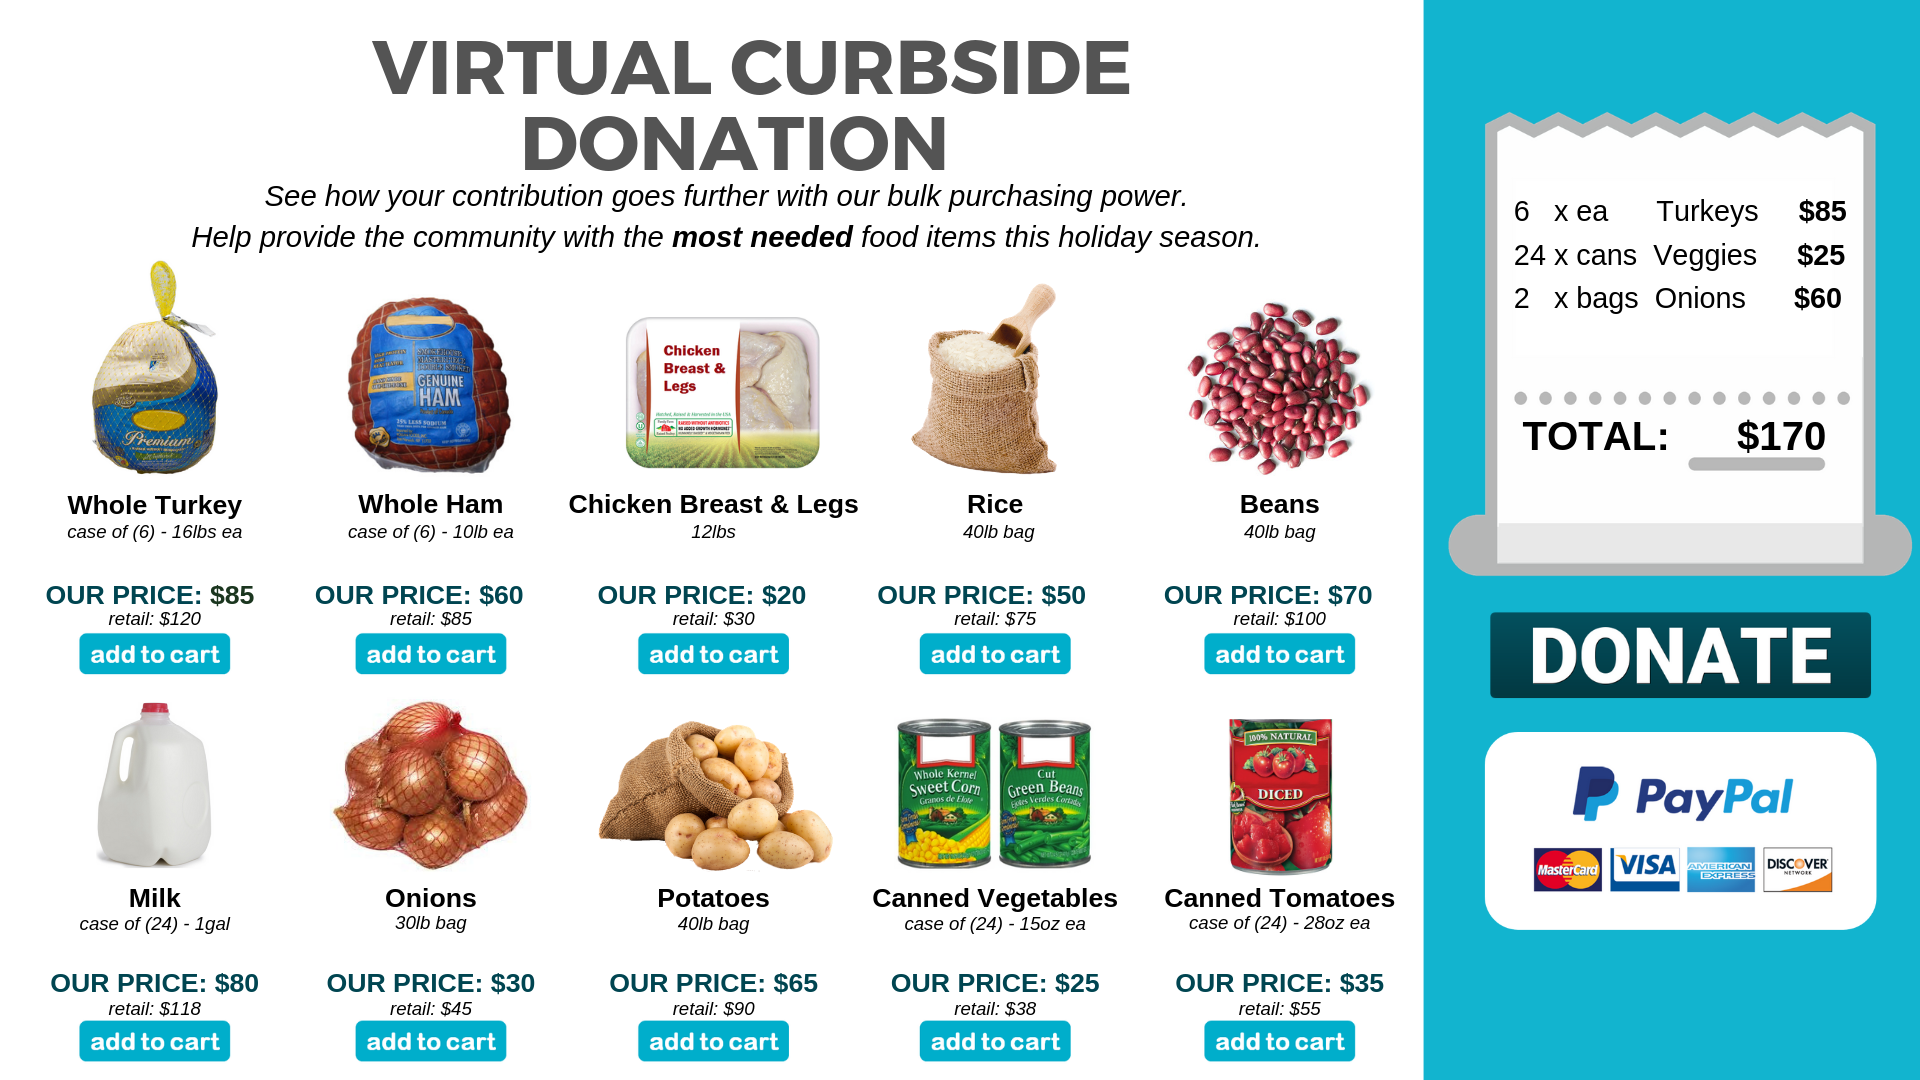
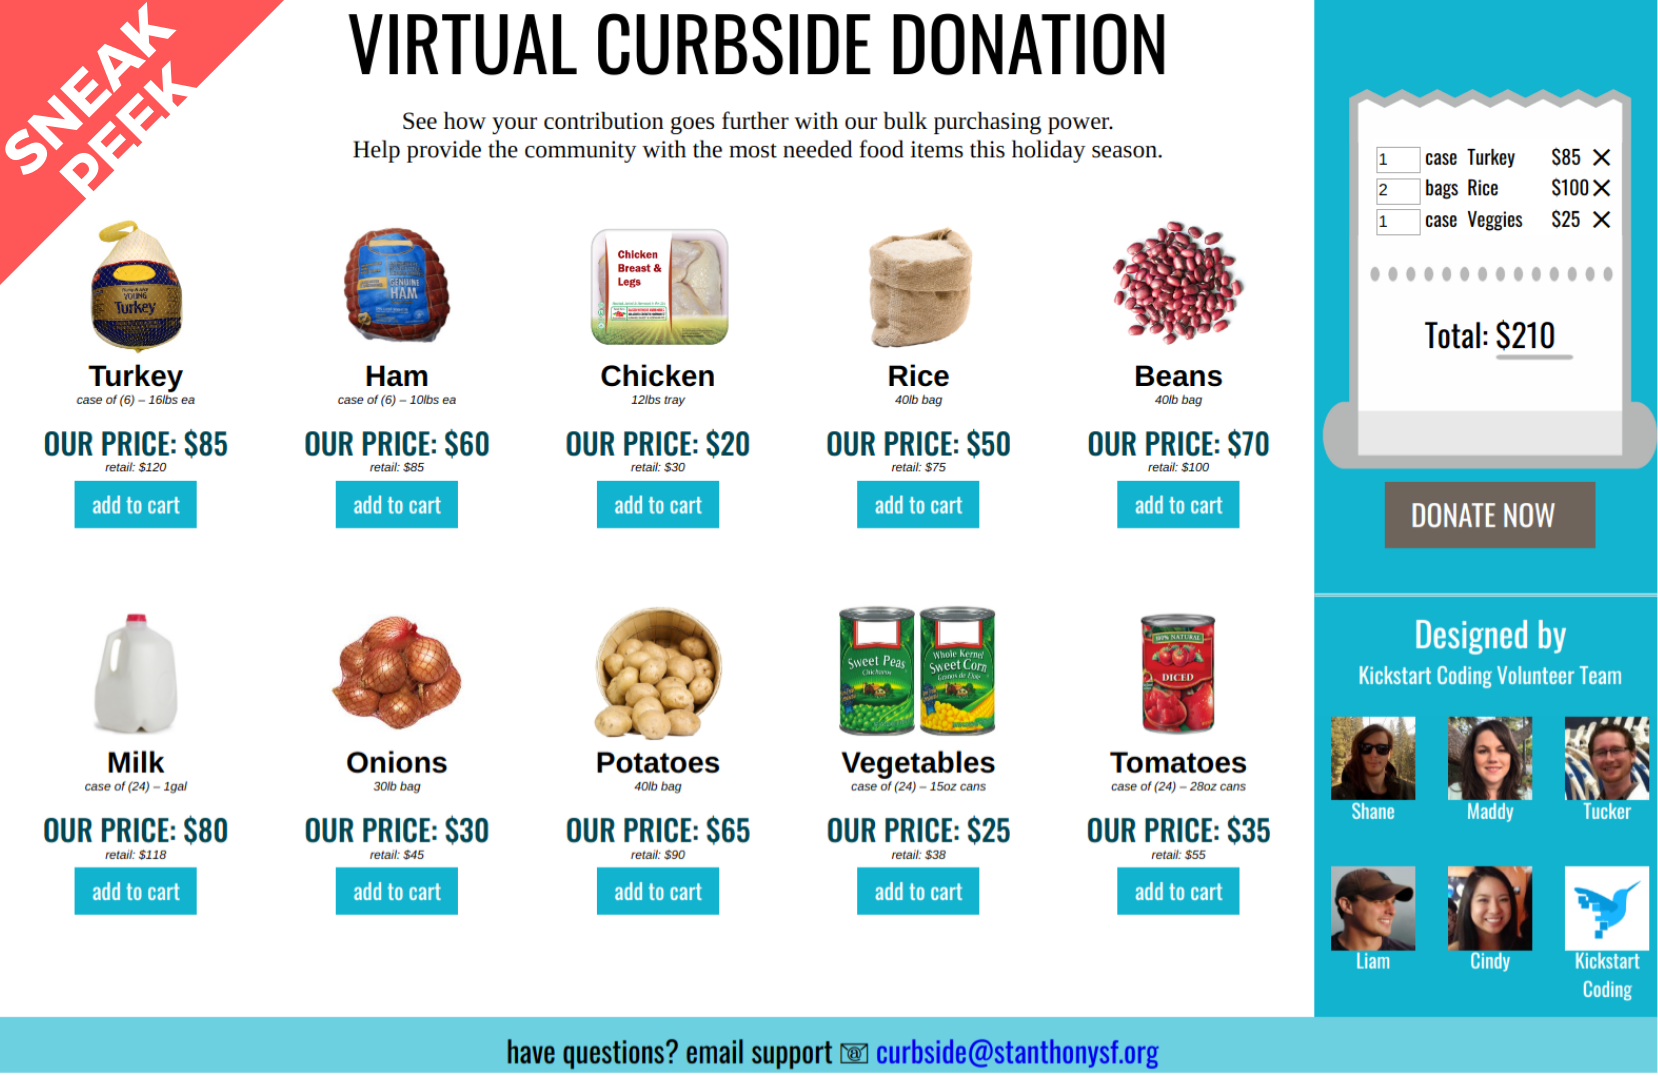
added input fields on receipt, updated team photos, updated add and donate buttons (#35)

diff --git a/css/style.css b/css/style.css
@@ -1,22 +1,23 @@
 .addbutton {
 	background-color:#12b3cf;
-	-moz-border-radius:28px;
+	/*-moz-border-radius:28px;
 	-webkit-border-radius:28px;
-	border-radius:28px;
+	border-radius:28px;*/
 	border: none;
 	display:inline-block;
 	cursor:pointer;
 	color:#ffffff;
 	font-family: Oswald;
-  font-weight: bold;
-	font-size:15px;
+  font-weight: 400;
+	font-size:18px;
 	padding:6px 14px;
 	text-decoration:none;
 	align-items: end;
 
 }
 .addbutton:hover {
-	background-color:#d77450;
+	background-color:#6CD0E1;
+	color: #ffffff;
 }
 .addbutton:active {
 	position:relative;
@@ -48,19 +49,19 @@
 	-webkit-box-shadow:inset 0px 0px 14px -3px #f2fadc;
 	box-shadow:inset 0px 0px 14px -3px #f2fadc;
 	background:-webkit-gradient(linear, left top, left bottom, color-stop(0.05, #dbe6c4), color-stop(1, #9ba892));
-	background:-moz-linear-gradient(top, #dbe6c4 5%, #9ba892 100%);
-	background:-webkit-linear-gradient(top, #dbe6c4 5%, #9ba892 100%);
-	background:-o-linear-gradient(top, #dbe6c4 5%, #9ba892 100%);
-	background:-ms-linear-gradient(top, #dbe6c4 5%, #9ba892 100%);
-	background:linear-gradient(to bottom, #dbe6c4 5%, #9ba892 100%);
+	background:-moz-linear-gradient(top, #6E645C 5%, #9ba892 100%);
+	background:-webkit-linear-gradient(top, #6E645C 5%, #9ba892 100%);
+	background:-o-linear-gradient(top, #6E645C 5%, #9ba892 100%);
+	background:-ms-linear-gradient(top, #6E645C 5%, #9ba892 100%);
+	background:linear-gradient(to bottom, #6E645C 5%, #9ba892 100%);
 	filter:progid:DXImageTransform.Microsoft.gradient(startColorstr='#dbe6c4', endColorstr='#9ba892',GradientType=0);
-	background-color:#dbe6c4;
+	background-color:#6E645C;
 	border:1px solid #b2b8ad;
 	display:inline-block;
 	cursor:pointer;
-	color:#757d6f;
+	color:#6E645;
 	font-family:Arial;
-	font-size:9px;
+	font-size:7px;
 	font-weight:bold;
 	padding:0px 0px;
 	text-decoration:none;
@@ -85,29 +86,31 @@
   display: grid;
   grid-template-rows: 1fr 1fr;
   grid-template-columns: 1fr 1fr 1fr;
+	background-color:#12b3cf;
+	margin-top: 20px;
 }
 
 .team-name {
   text-align: center;
-  font-family: var(--teamheaderfont);
+  font-family: 'Oswald';
+	font-weight: 400;
   font-size: 1em;
   color: white;
+	background-color:#12b3cf;
+	margin-top: -8px;
 }
 
 .teamPics {
-  border-radius: 50%;
-	width: 58px;
-	height: 58px;
-	border: 3px solid white;
+  /*border-radius: 40%;*/
+	width: 68px;
+	height: 68px;
+	/*border: 3px solid white;*/
 	background-color: white;
+	/*margin-left: 15%;*/
 }
 
 .teamPics:hover {
-  border-radius: 50%;
-	width: 58px;
-	height: 58px;
-	border: 3px solid white;
-	background-color: white;
+
 
 	opacity: .6;
 }
@@ -143,7 +146,7 @@
 .email-support {
 	background-color: #6CD0E1;
 	font-family: Oswald;
-	font-size: 20px;
+	font-size: 24px;
 	padding-top: 10px;
   text-align: center;
 }
@@ -155,4 +158,29 @@ a	{
 
 a:hover {
 	color: #d77450;
+}
+
+.donatebutton2 {
+	color: white !important;
+	background-color: #6E645C;
+	padding: 15px;
+	width: 60%;
+	margin-left: 20%;
+	margin-bottom: 10px;
+	border: none;
+	font-size: 24px;
+	font-weight: 400;
+	font-family: 'Oswald';
+	line-height: 1;
+	text-align: center;
+	display: block;
+}
+
+.donatebutton2:hover {
+	background-color: #D77450;
+}
+
+hr {
+	border-top: 1px solid;
+	color: white;
 }

diff --git a/css/grid-layout.css b/css/grid-layout.css
@@ -1,8 +1,8 @@
 :root {
   /* Super Mario World Inspired */
   --titlefont: 'Oswald', sans-serif;
-  --subheaderfont: sans-serif;
-  --teamheaderfont: sans-serif;
+  --subheaderfont: Georgia;
+  --teamheaderfont: Oswald;
   --sidepanel-background: #12b4cf;
   --itemtitlefont: arial;
   --itemunitretailfont: sans-serif;
@@ -11,12 +11,16 @@
   --ourpricecolor: #004551;
 }
 
+html, body {
+    max-width: 100%;
+    overflow-x: hidden;
+}
 
 .grid-container {
   display: grid;
   height: 100%;
   grid-template-columns: 1fr 1fr 1fr 1fr 1fr 1.25fr;
-  grid-template-rows: 0.25fr 0.25fr 1fr 1fr;
+  grid-template-rows: 0.5fr 0.5fr 2fr 2fr;
   grid-template-areas: ". . . ." ". . . .";
 
 }
@@ -29,9 +33,9 @@
   grid-template-areas: ".";
   text-align: center;
   font-family: var(--titlefont);
-  font-size: 50px;
+  font-size: 60px;
   line-height: 1;
-  font-weight: 500;
+  font-weight: 400;
 
 }
 
@@ -43,7 +47,9 @@
   grid-template-areas: ".";
   text-align: center;
   font-family: var(--subheaderfont);
-  /*margin-top: 10px;*/
+  font-size: 20px;
+  margin-bottom: -10px;
+  /*line-height: 15*/
 }
 
 .teamHeader {
@@ -52,6 +58,8 @@
   margin-bottom: 5px;
   font-size: 12px;
   color: white;
+  font-weight: 400;
+  background-color: #12b4cf;
 }
 .Receipt {
   display: grid;
@@ -61,6 +69,7 @@
   grid-template-areas: ".";
   background-color: var(--sidepanel-background);
   align-items: end;
+  margin-bottom: 100px;
 
 }
 
@@ -81,15 +90,15 @@
 .singleline {
     display: grid;
     grid-template-rows: 100%;
-    grid-template-columns: 7% 15% 30% 5%;
-    background-image: url("../img/middlereceipt.png");
+    grid-template-columns: 14% 12% 24% 10% 5%;
+    background-image: url("../img/blankreceipt.png");
     background-size: 100% 100%;
     position: relative;
     width: 285px;
 }
 .singleline > div {
-    margin-left: 65px;
-    width: 200px;
+    margin-left: 50px;
+    width: 285px;
 }
 
 
@@ -104,9 +113,10 @@
 }
 
 .Donate {
-  grid-area: 4 / 6 / 5 / 7;
+  grid-area: 4 / 6 / 7 / 7;
   background-color: var(--sidepanel-background);
   text-align: center;
+  margin-top: -100px;
 }
 
 .Items-List {
@@ -121,8 +131,8 @@
 }
 
 .Item-Name {
-  font-weight: bold;
-  font-size: 20px;
+  font-weight: 600;
+  font-size: 24px;
   font-family: var(--itemtitlefont);
 }
 
@@ -149,7 +159,7 @@
 }
 
 .Our-Price {
-  font-weight: 600;
+  font-weight: 500;
   font-family: var(--ourpricefont);
   color: var(--ourpricecolor);
   font-size: 24px;
@@ -175,7 +185,7 @@
 .team {
   display: flex;
   flex-flow: wrap;
-  justify-content: space-around;
+  /*justify-content: space-around;*/
 }
 
 /* if viewed on an iPad */

diff --git a/index.html b/index.html
@@ -21,8 +21,8 @@
         VIRTUAL CURBSIDE DONATION
       </div>
       <div class="Description">
-        <p>See how your contribution goes further with our bulk purchasing power.</p>
-        <p>Help provide the community with the <strong>most needed</strong> food items this holiday season.</p>
+        See how your contribution goes further with our bulk purchasing power.</br>
+        Help provide the community with the most needed food items this holiday season.
       </div>
       <div class="Receipt">
         <div class="topimage"></div>
@@ -35,7 +35,10 @@
           </div>
       <!-- Total amount shows up here -->
         </div>
+
       </div>
+
+
     <div class="Donate">
     <!-- PayPal Logo : <a href="https://www.paypal.com/webapps/mpp/paypal-popup" title="How PayPal Works" onclick="javascript:window.open('https://www.paypal.com/webapps/mpp/paypal-popup','WIPaypal','toolbar=no, location=no, directories=no, status=no, menubar=no, scrollbars=yes, resizable=yes, width=1060, height=700'); return false;"><img src="https://www.paypalobjects.com/webstatic/mktg/logo/pp_cc_mark_37x23.jpg" border="0" alt="PayPal Logo"></a><!-- PayPal Logo -->
 
@@ -54,14 +57,14 @@
              value="Please add items to your basket.">
       <input type="hidden" id="donateTotal" name="amount" value="0.00">
       <!-- Display the payment button: -->
-      <input type="submit" name="submit" value="Donate"
-             alt="Donate" class="donatebutton">
+      <input type="submit" name="submit" value="DONATE NOW  "
+             alt="Donate" class="donatebutton2">
       <img alt="" width="1" height="1"
            src="https://www.paypalobjects.com/en_US/i/scr/pixel.gif" >
     </form>
     <hr />
-    <div class = "teamHeader"><span style="font-size: 3.5ex; font-weight: bold;">Designed by</span><br /><span style="font-size: 2ex;">Kickstart Coding
-    Inaugural Cohort <br />Volunteer Team</span></div>
+    <div class = "teamHeader"><span style="font-size: 3.5ex;">Designed by</span><br /><span style="font-size: 1.5em;">Kickstart Coding
+    Volunteer Team</span></div>
     <div class= "team">
         <div>
           <a href="https://shaneleblanc.net" target="_blank">
@@ -110,7 +113,7 @@
   </div>
   <footer>
     <div class ="email-support">
-      <div>have questions?  📧 email support <a href ="mailto: curbside@stanthonysf.org">curbside@stanthonysf.org</a></div>
+      <div>have questions?  email support 📧 <a href ="mailto: curbside@stanthonysf.org">curbside@stanthonysf.org</a></div>
     </div>
   </footer>
 </div>

diff --git a/js/index.js b/js/index.js
@@ -8,14 +8,17 @@ function updateCartList(){
     let id = 0;
     for(let item of itemList){
         if(item.quantity === 1) {
-            cartItems += `<div>${item.quantity}</div>`;
+            cartItems += `<div><input type="number" min="0" max="9" size="2" value="${item.quantity}" /></div>`;
             cartItems += `<div>${item.unitsReceipt}</div>`;
             cartItems += `<div>${item.nameReceipt}</div>`;
+            cartItems += `<div>$${item.quantity*item.ourPrice}</div>`
             cartItems += `<div><a onclick="removeFromCart(${id})"><i class="material-icons icon">close</i></a></div>`;
+
         } else if (item.quantity > 1) { //Add an s to the end of the units if >1
-            cartItems += `<div>${item.quantity}</div>`;
+            cartItems += `<div><input type="number" min="0" max="9" size="2" value="${item.quantity}" /></div>`;
             cartItems += `<div>${item.unitsReceipt}s</div>`;
             cartItems += `<div>${item.nameReceipt}</div>`;
+            cartItems += `<div>$${item.quantity*item.ourPrice}</div>`
             cartItems += `<div><a onclick="removeFromCart(${id})"><i class="material-icons icon">close</i></a></div>`;
         }
         id++;

diff --git a/js/itemList.js b/js/itemList.js
@@ -2,7 +2,7 @@ var itemList = [
   {
     "quantity": 0,
     "image": "img/turkey.png",
-    "itemName": "Whole Turkey",
+    "itemName": "Turkey",
     "servingUnits": "case of (6) – 16lbs ea",
     "ourPrice": 85,
     "retailPrice": 120,
@@ -12,7 +12,7 @@ var itemList = [
   {
     "quantity": 0,
     "image": "img/ham.png",
-    "itemName": "Whole Ham",
+    "itemName": "Ham",
     "servingUnits": "case of (6) – 10lbs ea",
     "ourPrice": 60,
     "retailPrice": 85,
@@ -82,8 +82,8 @@ var itemList = [
   {
     "quantity": 0,
     "image": "img/veggies.png",
-    "itemName": "Canned Vegetables",
-    "servingUnits": "case of (24) – 15oz ea",
+    "itemName": "Vegetables",
+    "servingUnits": "case of (24) – 15oz cans",
     "ourPrice": 25,
     "retailPrice": 38,
     "unitsReceipt": "case",
@@ -92,8 +92,8 @@ var itemList = [
   {
     "quantity": 0,
     "image": "img/tomato.png",
-    "itemName": "Canned Tomatoes",
-    "servingUnits": "case of (24) – 28oz ea",
+    "itemName": "Tomatoes",
+    "servingUnits": "case of (24) – 28oz cans",
     "ourPrice": 35,
     "retailPrice": 55,
     "unitsReceipt": "case",
